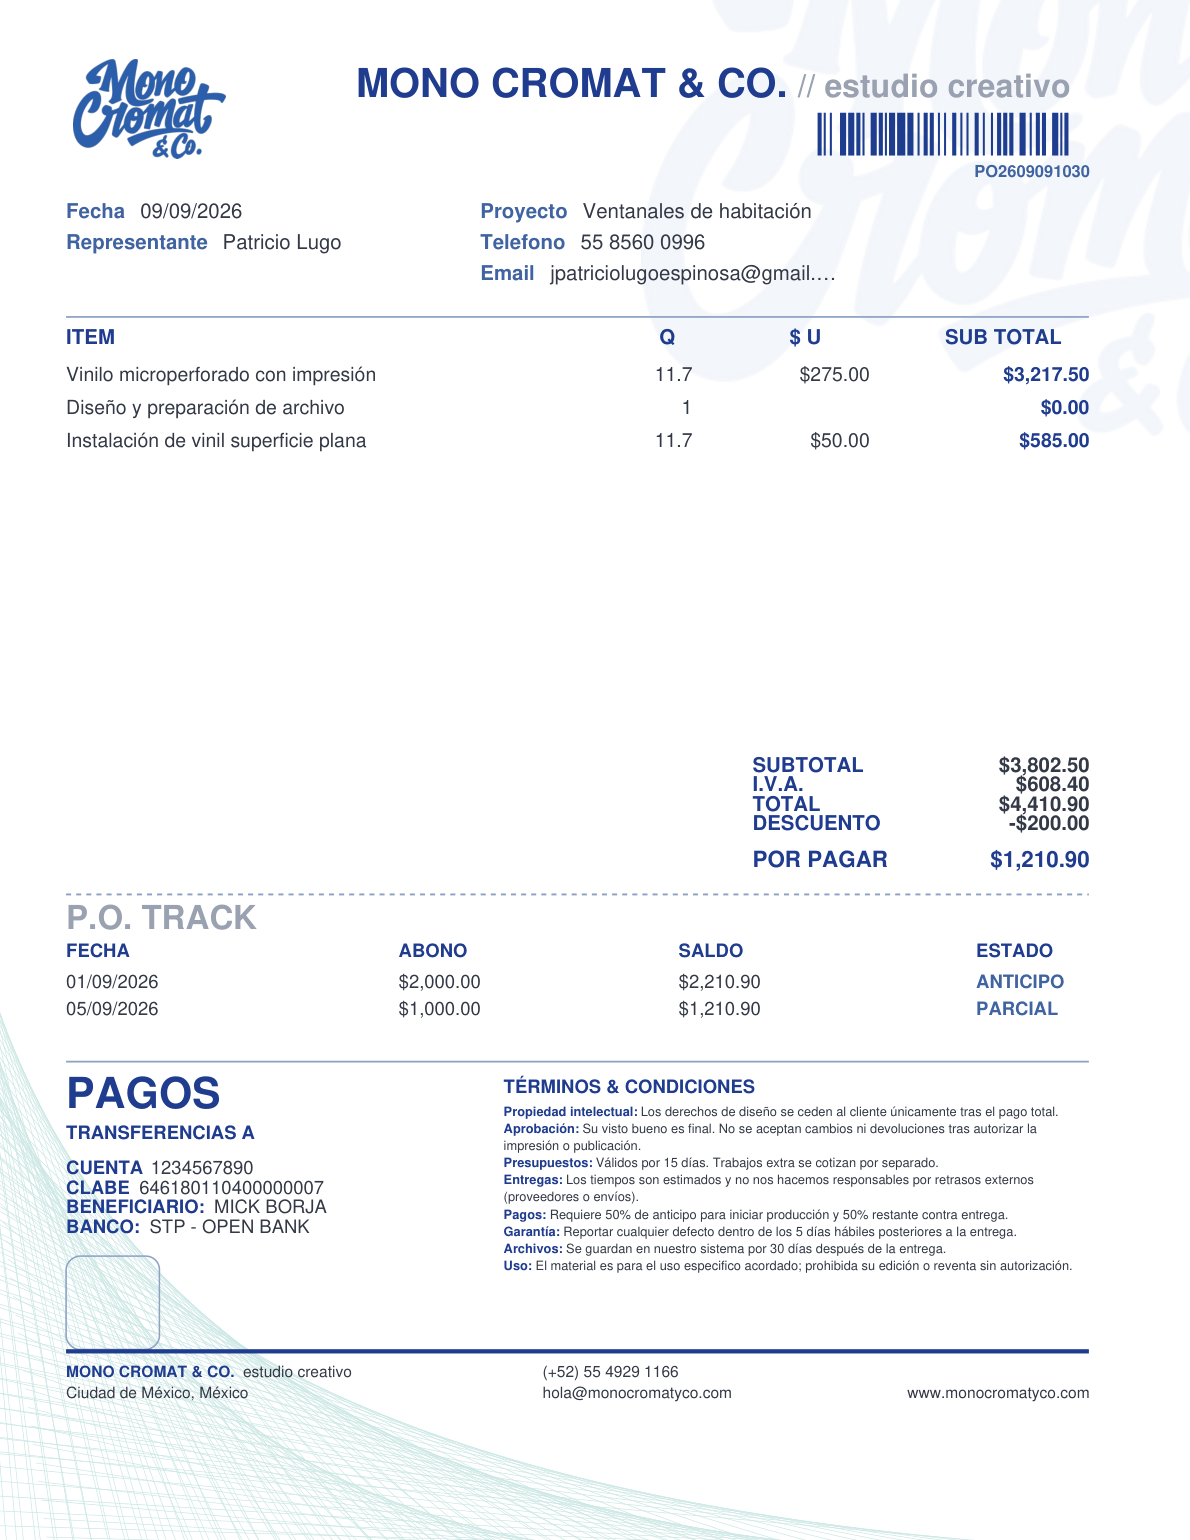
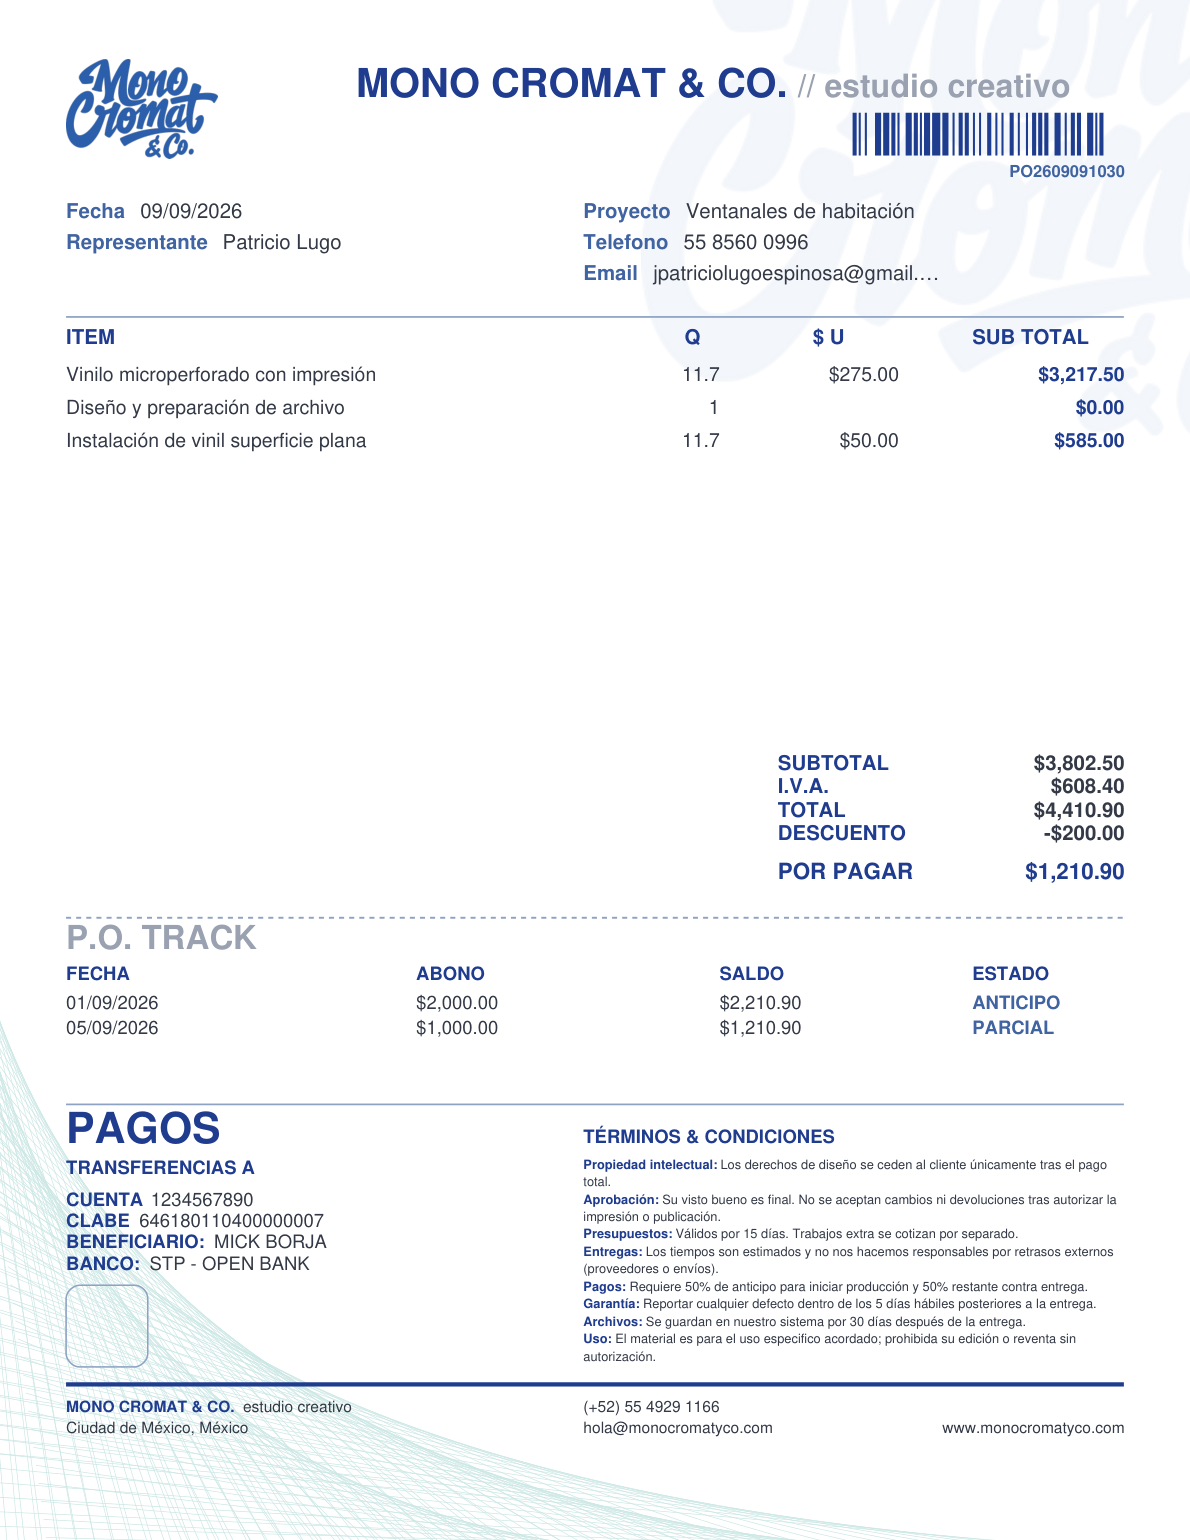
style(pdf): margenes simetricos, columnas alineadas y ritmo vertical
Alineacion:
- margenes laterales simetricos: 34pt a cada lado (contentR 560 -> 578)
- logo a ras del margen izquierdo (38 -> 34)
- columna derecha unificada en x=300: Proyecto/Telefono/Email, TERMINOS
  y la columna central del pie comparten eje
- columnas de la tabla y de P.O. TRACK repartidas sobre el ancho util
- todo lo alineado a la derecha (folio, SUB TOTAL, totales, web) cierra en 578

Espaciado:
- totales con interlineado de 12pt y 20pt de aire antes de POR PAGAR
- P.O. TRACK y PAGOS/TERMINOS con mas respiro; ambas columnas arrancan en 588
- pie bajado a 712 con 26pt de margen inferior

Correccion de colisiones (detectadas al auditar):
- con 5 abonos las filas cruzaban la regla de P.O. TRACK -> max 4 filas
  y regla recalculada con 10pt de aire
- el QR quedaba pegado/encima de la regla del pie
- con tablas largas el bloque inferior invadia el pie: ahora solo los
  totales acompanan el desplazamiento (totalsShiftMax) y de P.O. TRACK
  hacia abajo todo queda anclado

sw: cache v16

diff --git a/js/pdf.js b/js/pdf.js
@@ -110,7 +110,9 @@
     const isCot = doc.tipo === 'cotizacion';
     const t = window.docTotals(doc, s);
     const table = window.layoutItems(doc);
-    const shift = table.delta;
+    // Sólo el bloque de totales sigue a una tabla larga; de P.O. TRACK
+    // hacia abajo todo queda anclado para no invadir el pie.
+    const shift = Math.min(table.delta, LAY.totalsShiftMax);
     const itemSize = table.size;
 
     /* ---------- Fondos ---------- */
@@ -203,23 +205,23 @@
     totalRow('POR PAGAR', window.fmtMoney(t.porPagar), TY.porPagar, LAY.porPagarSize, true);
 
     /* ---------- P.O. TRACK ---------- */
-    dashedLine(pdf, LAY.contentL, LAY.trackDashY + shift, LAY.contentR, 1, [2.6, 2.6], RULE);
+    dashedLine(pdf, LAY.contentL, LAY.trackDashY, LAY.contentR, 1, [2.6, 2.6], RULE);
     F('bold'); pdf.setFontSize(LAY.trackTitle.size); C(GREY);
-    pdf.text('P.O. TRACK', LAY.trackTitle.x, LAY.trackTitle.y + shift);
+    pdf.text('P.O. TRACK', LAY.trackTitle.x, LAY.trackTitle.y);
 
     const TKS = LAY.trackSize;
     F('bold'); pdf.setFontSize(TKS); C(BLUE);
-    pdf.text('FECHA', LAY.trackFechaX, LAY.trackHeaderY + shift);
-    pdf.text('ABONO', LAY.trackAbonoX, LAY.trackHeaderY + shift);
-    pdf.text('SALDO', LAY.trackSaldoX, LAY.trackHeaderY + shift);
-    pdf.text('ESTADO', LAY.trackEstadoX, LAY.trackHeaderY + shift);
+    pdf.text('FECHA', LAY.trackFechaX, LAY.trackHeaderY);
+    pdf.text('ABONO', LAY.trackAbonoX, LAY.trackHeaderY);
+    pdf.text('SALDO', LAY.trackSaldoX, LAY.trackHeaderY);
+    pdf.text('ESTADO', LAY.trackEstadoX, LAY.trackHeaderY);
 
     const abonos = (doc.abonos || [])
       .filter((a) => a.fecha || (Number(a.monto) || 0) !== 0)
       .slice(0, LAY.trackMax);
     let saldo = t.total;
     abonos.forEach((a, i) => {
-      const yy = LAY.trackStartY + i * LAY.trackRowH + shift;
+      const yy = LAY.trackStartY + i * LAY.trackRowH;
       saldo -= (Number(a.monto) || 0);
       F('regular'); pdf.setFontSize(TKS); C(BODY);
       pdf.text(window.fmtDate(a.fecha) || '—', LAY.trackFechaX, yy);
@@ -228,23 +230,23 @@
       F('bold'); C(saldo <= 0.005 ? TURQ : STEEL);
       pdf.text(window.abonoEstado(saldo, i), LAY.trackEstadoX, yy);
     });
-    solidLine(pdf, LAY.contentL, LAY.trackRuleY + shift, LAY.contentR, 0.9, RULE);
+    solidLine(pdf, LAY.contentL, LAY.trackRuleY, LAY.contentR, 0.9, RULE);
 
     /* ---------- Pagos (columna izquierda) ---------- */
     F('bold'); pdf.setFontSize(LAY.pagosTitle.size); C(BLUE);
-    pdf.text('PAGOS', LAY.pagosTitle.x, LAY.pagosTitle.y + shift);
+    pdf.text('PAGOS', LAY.pagosTitle.x, LAY.pagosTitle.y);
     F('bold'); pdf.setFontSize(LAY.pagosSubt.size);
-    pdf.text('TRANSFERENCIAS A', LAY.pagosSubt.x, LAY.pagosSubt.y + shift);
+    pdf.text('TRANSFERENCIAS A', LAY.pagosSubt.x, LAY.pagosSubt.y);
 
     const PS = LAY.pagosSize;
     const p = doc.pagos || {};
     function pagoRow(label, value, py) {
       F('bold'); pdf.setFontSize(PS); C(BLUE);
-      pdf.text(label, LAY.pagosLabelX, py + shift);
+      pdf.text(label, LAY.pagosLabelX, py);
       if (!value) return;
       const wl = pdf.getTextWidth(label);
       F('regular'); C(BODY);
-      pdf.text(fitText(pdf, String(value), 190 - wl), LAY.pagosLabelX + wl + 5, py + shift);
+      pdf.text(fitText(pdf, String(value), 190 - wl), LAY.pagosLabelX + wl + 5, py);
     }
     pagoRow('CUENTA', p.cuenta, LAY.pagosYs.cuenta);
     pagoRow('CLABE', p.clabe, LAY.pagosYs.clabe);
@@ -252,22 +254,22 @@
     pagoRow('BANCO:', p.banco, LAY.pagosYs.banco);
 
     pdf.setDrawColor(...RULE); pdf.setLineWidth(0.8);
-    pdf.roundedRect(LAY.qrBox.x, LAY.qrBox.y + shift, LAY.qrBox.w, LAY.qrBox.h, LAY.qrBox.r, LAY.qrBox.r, 'S');
+    pdf.roundedRect(LAY.qrBox.x, LAY.qrBox.y, LAY.qrBox.w, LAY.qrBox.h, LAY.qrBox.r, LAY.qrBox.r, 'S');
     if (s.qr) {
-      try { pdf.addImage(s.qr, 'PNG', LAY.qrBox.x + 4, LAY.qrBox.y + 4 + shift, LAY.qrBox.w - 8, LAY.qrBox.h - 8); } catch (e) {}
+      try { pdf.addImage(s.qr, 'PNG', LAY.qrBox.x + 4, LAY.qrBox.y + 4, LAY.qrBox.w - 8, LAY.qrBox.h - 8); } catch (e) {}
     }
 
     /* ---------- Términos & condiciones (columna derecha) ---------- */
     F('bold'); pdf.setFontSize(LAY.termsTitle.size); C(BLUE);
-    pdf.text('TÉRMINOS & CONDICIONES', LAY.termsTitle.x, LAY.termsTitle.y + shift);
+    pdf.text('TÉRMINOS & CONDICIONES', LAY.termsTitle.x, LAY.termsTitle.y);
 
     const terms = window.parseTerms(doc.terminos || s.terminos || '');
     const TSZ = LAY.termsSize;
     const lineStep = TSZ * LAY.termsLineH;
-    let ty = LAY.termsY + shift;
+    let ty = LAY.termsY;
     let used = 0;
     terms.forEach((item) => {
-      if (used >= LAY.termsMaxLines || ty > LAY.termsBottom + shift) return;
+      if (used >= LAY.termsMaxLines || ty > LAY.termsBottom) return;
       const labelTxt = item.label ? item.label + ':' : '';
       F('bold'); pdf.setFontSize(TSZ);
       const wl = labelTxt ? pdf.getTextWidth(labelTxt + ' ') : 0;
@@ -296,10 +298,10 @@
       rest.forEach((w) => {
         const test = cur ? cur + ' ' + w : w;
         if (pdf.getTextWidth(test) <= LAY.termsW) { cur = test; return; }
-        if (used < LAY.termsMaxLines && ty <= LAY.termsBottom + shift) { pdf.text(cur, LAY.termsX, ty); ty += lineStep; used++; }
+        if (used < LAY.termsMaxLines && ty <= LAY.termsBottom) { pdf.text(cur, LAY.termsX, ty); ty += lineStep; used++; }
         cur = w;
       });
-      if (cur && used < LAY.termsMaxLines && ty <= LAY.termsBottom + shift) {
+      if (cur && used < LAY.termsMaxLines && ty <= LAY.termsBottom) {
         pdf.text(cur, LAY.termsX, ty);
         ty += lineStep; used++;
       }

diff --git a/js/layout.js b/js/layout.js
@@ -27,8 +27,9 @@ window.LAYOUT = {
   light:     [232, 242, 248],
   lightHex:  '#E8F2F8',
 
+  // márgenes laterales simétricos: 34pt a cada lado
   contentL: 34,
-  contentR: 560,
+  contentR: 578,
 
   /* ---------- Marca de agua + fondo de líneas ---------- */
   // Lettering pálido anclado arriba a la derecha (se recorta con la hoja).
@@ -36,68 +37,78 @@ window.LAYOUT = {
   // antiguo traía el texto del diseño anterior incrustado.
   watermark: { x: 330, y: -54, w: 430, h: 281, opacity: 0.055 },
   // string-art: envolvente de rectas, esquina inferior izquierda
-  lineArtBox: { x: -30, y: 330, w: 660, h: 470 },
+  lineArtBox: { x: -30, y: 340, w: 672, h: 460 },
 
   /* ---------- Cabecera ---------- */
-  logoBox:    { x: 38, y: 26, w: 78, h: 60 },
+  logoBox:    { x: 34, y: 26, w: 78, h: 60 },
   brandLine1: { x: 183, y: 50, size: 20.5 },   // "MONO CROMAT & CO."
   brandSlash: { x: 183, y: 50, size: 16.5 },   // "// estudio creativo" (x se calcula)
   // Bloque de folio (arriba a la derecha). No se imprime "RECIBO" /
   // "COTIZACIÓN": el prefijo del folio ya lo identifica (PO = recibo,
   // RQ = cotización), así que sólo van el código de barras y el número.
-  folioBox: { right: 560, y: 58, w: 150, h: 22, size: 8.5, gap: 11 },
+  folioBox: { right: 578, y: 58, w: 150, h: 22, size: 8.5, gap: 11 },
 
   /* ---------- Datos (dos columnas) ---------- */
   metaSize: 10.5,
-  metaLeftX: 34, metaRightX: 247,
+  metaLeftX: 34, metaRightX: 300,
   metaYs: { fecha: 112, representante: 128, proyecto: 112, telefono: 128, email: 144 },
 
   /* ---------- Tabla de conceptos ---------- */
   headRuleY: 163, headRuleW: 0.9,
   tableHeaderY: 177, tableHeaderSize: 10.5,
-  colDesc: 34, colQ: 339, colPrecio: 406, colSubtotal: 486,
-  qtyAlignX: 356, priceAlignX: 447, subtotalAlignX: 560,
+  colDesc: 34, colQ: 352, colPrecio: 418, colSubtotal: 500,
+  qtyAlignX: 370, priceAlignX: 462, subtotalAlignX: 578,
   itemsStartY: 196, rowH: 17, itemsMaxBottom: 380, itemSize: 10,
-  itemsShiftBudget: 26,
+  itemsShiftBudget: 12,
+  // Sólo el bloque de totales acompaña a una tabla larga. Todo lo que va
+  // debajo (P.O. TRACK, PAGOS, TÉRMINOS, pie) queda anclado, para que
+  // nunca se monte sobre la regla del pie.
+  totalsShiftMax: 12,
 
   /* ---------- Totales (columna derecha) ---------- */
-  totalsLabelX: 387, totalsAlignX: 560, totalsSize: 10.5,
-  totalsYs: { subtotal: 397, iva: 407, total: 417, descuento: 427, porPagar: 446 },
+  // interlineado de 12pt entre conceptos y 20pt de aire antes de POR PAGAR
+  totalsLabelX: 400, totalsAlignX: 578, totalsSize: 10.5,
+  totalsYs: { subtotal: 396, iva: 408, total: 420, descuento: 432, porPagar: 452 },
   porPagarSize: 11.5,
 
   /* ---------- P.O. TRACK ---------- */
-  trackDashY: 460,
-  trackTitle: { x: 34, y: 478, size: 17 },
-  trackHeaderY: 492, trackSize: 9.5,
-  trackFechaX: 34, trackAbonoX: 205, trackSaldoX: 349, trackEstadoX: 502,
-  trackStartY: 508, trackRowH: 14, trackMax: 5,
-  trackRuleY: 546,
+  trackDashY: 472,
+  trackTitle: { x: 34, y: 488, size: 17 },
+  trackHeaderY: 504, trackSize: 9.5,
+  // columnas repartidas en cuartos del ancho útil (34 → 560)
+  trackFechaX: 34, trackAbonoX: 214, trackSaldoX: 370, trackEstadoX: 500,
+  trackStartY: 519, trackRowH: 13, trackMax: 4,
+  // la regla deja 10pt de aire bajo la última fila (519 + 3*13 = 558)
+  trackRuleY: 568,
 
   /* ---------- Pagos (columna izquierda) ---------- */
-  pagosTitle:  { x: 34, y: 570, size: 22 },
-  pagosSubt:   { x: 34, y: 586, size: 9.5 },
+  // ambas columnas arrancan a la misma altura (583) para que PAGOS y
+  // TÉRMINOS queden a ras por arriba
+  pagosTitle:  { x: 34, y: 588, size: 22 },
+  pagosSubt:   { x: 34, y: 604, size: 9.5 },
   pagosLabelX: 34, pagosSize: 9.5,
-  pagosYs: { cuenta: 604, clabe: 614, beneficiario: 624, banco: 634 },
-  qrBox: { x: 34, y: 646, w: 48, h: 48, r: 7 },
+  pagosYs: { cuenta: 620, clabe: 631, beneficiario: 642, banco: 653 },
+  qrBox: { x: 34, y: 661, w: 42, h: 42, r: 7 },
 
   /* ---------- Términos (columna derecha) ---------- */
-  termsTitle: { x: 259, y: 562, size: 9.5 },
-  termsX: 259, termsY: 574, termsW: 301, termsSize: 6.6, termsLineH: 1.33,
-  termsMaxLines: 15,
-  // ninguna línea puede pisar la regla del pie
-  termsBottom: 688,
+  termsTitle: { x: 300, y: 588, size: 9.5 },
+  termsX: 300, termsY: 601, termsW: 278, termsSize: 6.6, termsLineH: 1.36,
+  termsMaxLines: 14,
+  // ninguna línea puede pisar la regla del pie (deja 8pt de aire)
+  termsBottom: 704,
 
   /* ---------- Pie ---------- */
-  footRuleY: 695, footRuleW: 2.2,
+  // 26pt de margen arriba (logo) y ~26pt abajo tras la última línea
+  footRuleY: 712, footRuleW: 2.2,
   footSize: 8,
-  footYs: [708, 719],
-  footColL: 34, footColM: 279, footColR: 560,
+  footYs: [726, 737],
+  footColL: 34, footColM: 300, footColR: 578,
 
   /* compat: claves antiguas que aún consultan algunos helpers */
-  clientX: 34, clientValueX: 247, clientSize: 10.5,
-  condX: 259, condTextW: 301, condTextSize: 7.4,
+  clientX: 34, clientValueX: 300, clientSize: 10.5,
+  condX: 300, condTextW: 278, condTextSize: 7.4,
   abonosMax: 5,
-  terminosW: 301, terminosSize: 7.4,
+  terminosW: 278, terminosSize: 7.4,
 };
 
 /* ================== Fondo string-art ==================

diff --git a/js/render.js b/js/render.js
@@ -111,7 +111,9 @@
 
     const t = window.docTotals(doc, s);
     const table = window.layoutItems(doc);
-    const shift = table.delta;
+    // Sólo el bloque de totales sigue a una tabla larga; de P.O. TRACK
+    // hacia abajo todo queda anclado para no invadir el pie.
+    const shift = Math.min(table.delta, L.totalsShiftMax);
     const itemSize = table.size;
 
     // posiciones del logo (contain dentro del recuadro)
@@ -192,38 +194,38 @@
     h += totalRow('POR PAGAR', window.fmtMoney(t.porPagar), TY.porPagar, 700, L.porPagarSize, BLUE);
 
     /* ---------- P.O. TRACK ---------- */
-    h += dash(L.contentL, L.trackDashY + shift, L.contentR - L.contentL, 1, RULE);
-    h += txt(L.trackTitle.x, L.trackTitle.y + shift, L.trackTitle.size, 700, 'P.O. TRACK', { color: GREY, ls: 0.5 });
+    h += dash(L.contentL, L.trackDashY, L.contentR - L.contentL, 1, RULE);
+    h += txt(L.trackTitle.x, L.trackTitle.y, L.trackTitle.size, 700, 'P.O. TRACK', { color: GREY, ls: 0.5 });
     const TKS = L.trackSize;
-    h += txt(L.trackFechaX, L.trackHeaderY + shift, TKS, 700, 'FECHA', { color: BLUE });
-    h += txt(L.trackAbonoX, L.trackHeaderY + shift, TKS, 700, 'ABONO', { color: BLUE });
-    h += txt(L.trackSaldoX, L.trackHeaderY + shift, TKS, 700, 'SALDO', { color: BLUE });
-    h += txt(L.trackEstadoX, L.trackHeaderY + shift, TKS, 700, 'ESTADO', { color: BLUE });
+    h += txt(L.trackFechaX, L.trackHeaderY, TKS, 700, 'FECHA', { color: BLUE });
+    h += txt(L.trackAbonoX, L.trackHeaderY, TKS, 700, 'ABONO', { color: BLUE });
+    h += txt(L.trackSaldoX, L.trackHeaderY, TKS, 700, 'SALDO', { color: BLUE });
+    h += txt(L.trackEstadoX, L.trackHeaderY, TKS, 700, 'ESTADO', { color: BLUE });
 
     const abonos = (doc.abonos || [])
       .filter((a) => a.fecha || (Number(a.monto) || 0) !== 0)
       .slice(0, L.trackMax);
     let saldo = t.total;
     abonos.forEach((a, i) => {
-      const yy = L.trackStartY + i * L.trackRowH + shift;
+      const yy = L.trackStartY + i * L.trackRowH;
       saldo -= (Number(a.monto) || 0);
       h += txt(L.trackFechaX, yy, TKS, 400, window.fmtDate(a.fecha) || '—', { color: BODY });
       h += txt(L.trackAbonoX, yy, TKS, 400, window.fmtMoney(a.monto), { color: BODY });
       h += txt(L.trackSaldoX, yy, TKS, 400, window.fmtMoney(saldo), { color: BODY });
       h += txt(L.trackEstadoX, yy, TKS, 700, window.abonoEstado(saldo, i), { color: saldo <= 0.005 ? TURQ : STEEL });
     });
-    h += rule(L.contentL, L.trackRuleY + shift, L.contentR - L.contentL, 0.9, RULE);
+    h += rule(L.contentL, L.trackRuleY, L.contentR - L.contentL, 0.9, RULE);
 
     /* ---------- Pagos (columna izquierda) ---------- */
-    h += txt(L.pagosTitle.x, L.pagosTitle.y + shift, L.pagosTitle.size, 700, 'PAGOS', { color: BLUE, ls: -0.3 });
-    h += txt(L.pagosSubt.x, L.pagosSubt.y + shift, L.pagosSubt.size, 700, 'TRANSFERENCIAS A', { color: BLUE, ls: 0.3 });
+    h += txt(L.pagosTitle.x, L.pagosTitle.y, L.pagosTitle.size, 700, 'PAGOS', { color: BLUE, ls: -0.3 });
+    h += txt(L.pagosSubt.x, L.pagosSubt.y, L.pagosSubt.size, 700, 'TRANSFERENCIAS A', { color: BLUE, ls: 0.3 });
     const PS = L.pagosSize;
     const p = doc.pagos || {};
     function pagoRow(label, value, py, italic) {
-      let out = txt(L.pagosLabelX, py + shift, PS, 700, label, { color: BLUE });
+      let out = txt(L.pagosLabelX, py, PS, 700, label, { color: BLUE });
       if (value) {
         const wl = measurePt(label, PS, 700);
-        out += txt(L.pagosLabelX + wl + 5, py + shift, PS, 400, value,
+        out += txt(L.pagosLabelX + wl + 5, py, PS, 400, value,
           { color: BODY, ellipsis: true, w: 190 - wl, italic: italic });
       }
       return out;
@@ -233,13 +235,13 @@
     h += pagoRow('BENEFICIARIO:', p.beneficiario, L.pagosYs.beneficiario);
     h += pagoRow('BANCO:', p.banco, L.pagosYs.banco, true);
 
-    h += `<div style="position:absolute;left:${L.qrBox.x}pt;top:${(L.qrBox.y + shift).toFixed(2)}pt;width:${L.qrBox.w}pt;height:${L.qrBox.h}pt;border:0.8pt solid ${RULE};border-radius:${L.qrBox.r}pt;"></div>`;
+    h += `<div style="position:absolute;left:${L.qrBox.x}pt;top:${(L.qrBox.y).toFixed(2)}pt;width:${L.qrBox.w}pt;height:${L.qrBox.h}pt;border:0.8pt solid ${RULE};border-radius:${L.qrBox.r}pt;"></div>`;
     if (s.qr) {
-      h += imgAbs(s.qr, L.qrBox.x + 4, L.qrBox.y + 4 + shift, L.qrBox.w - 8, L.qrBox.h - 8);
+      h += imgAbs(s.qr, L.qrBox.x + 4, L.qrBox.y + 4, L.qrBox.w - 8, L.qrBox.h - 8);
     }
 
     /* ---------- Términos & condiciones (columna derecha) ---------- */
-    h += txt(L.termsTitle.x, L.termsTitle.y + shift, L.termsTitle.size, 700, 'TÉRMINOS & CONDICIONES', { color: BLUE, ls: 0.2 });
+    h += txt(L.termsTitle.x, L.termsTitle.y, L.termsTitle.size, 700, 'TÉRMINOS & CONDICIONES', { color: BLUE, ls: 0.2 });
     const terms = window.parseTerms(doc.terminos || s.terminos || '');
     const TSZ = L.termsSize;
     const lineStep = TSZ * L.termsLineH;

diff --git a/sw.js b/sw.js
@@ -1,5 +1,5 @@
 /* Service Worker — caché offline */
-const CACHE = 'mc-pwa-v15';
+const CACHE = 'mc-pwa-v16';
 const ASSETS = [
   './',
   './index.html',
